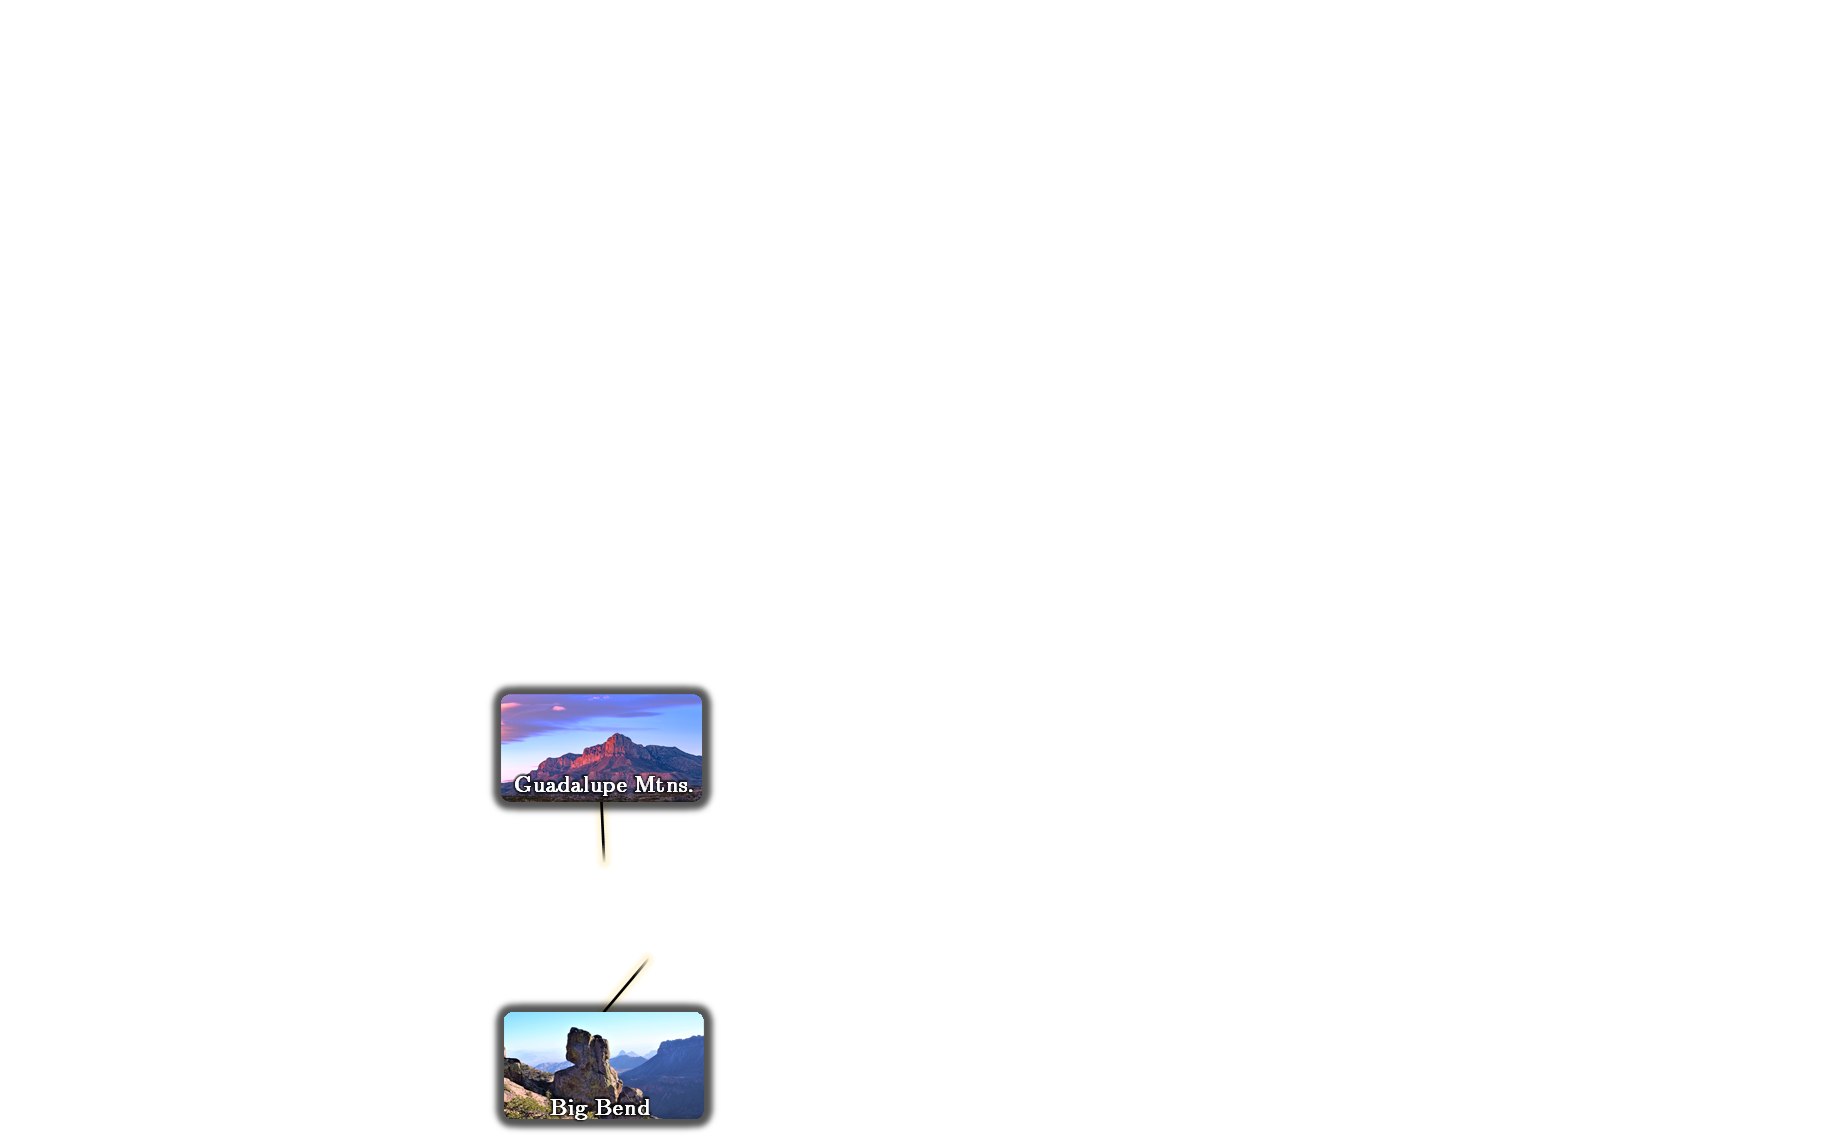
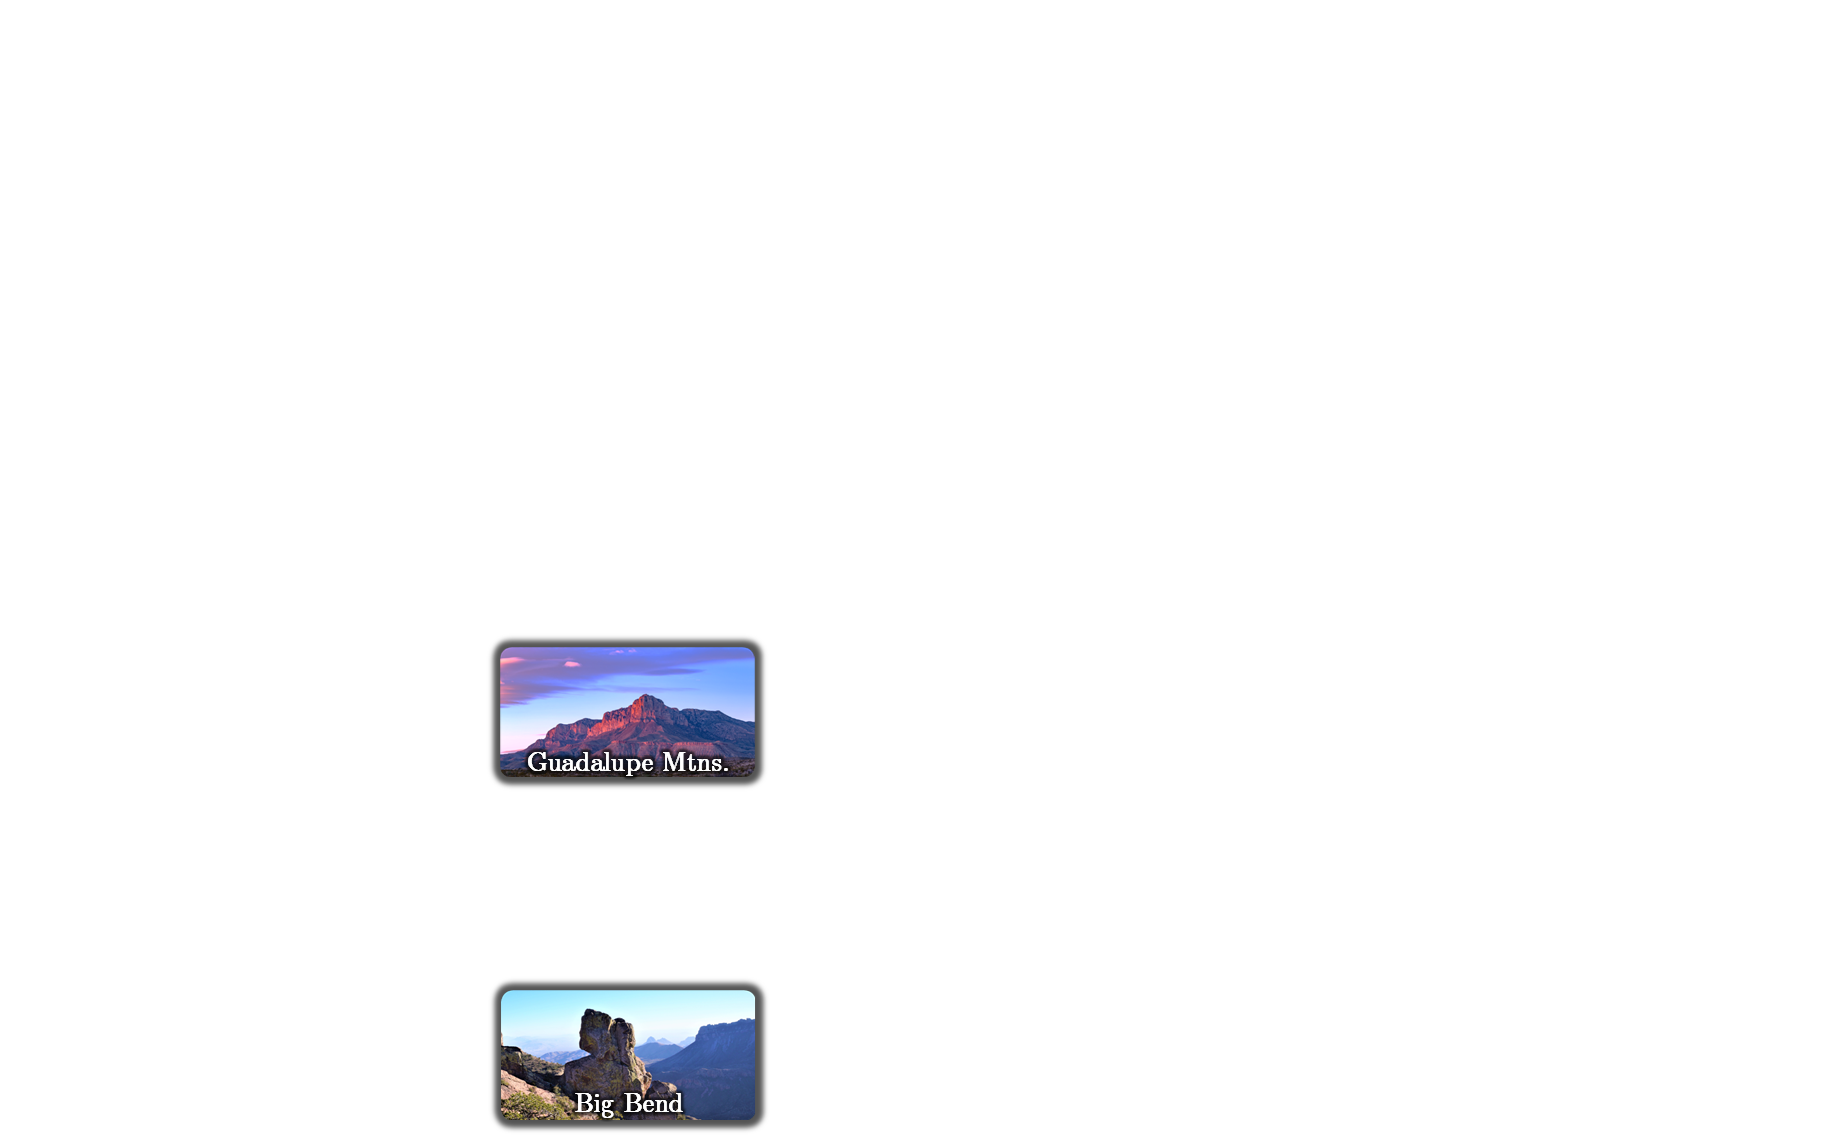
updating NP pics and lines

Changed region(s): [[0.2481, 0.5526, 0.4342, 0.7675], [0.2481, 0.8289, 0.4342, 1.0]]

diff --git a/index.html b/index.html
@@ -112,7 +112,9 @@
             Mountains NP & Big Bend NP. </p>
       </div>
       <div class="scrollContainer imgContainer">  
-        <p class="animate-on-scroll imageFadeIn"> <img src="images/NPs.png" alt="Big Bend and Guadalupe Mountains National Parks"></p>
+        <p class="animate-on-scroll imageFadeIn" style="z-index: 4;"> <img src="images/NPs.png" alt="Big Bend and Guadalupe Mountains National Parks"></p>
+        <p class="animate-on-scroll imageFadeIn"> <img src="images/NPLines.png" alt="Big Bend and Guadalupe Mountains National Parks"></p>
+
       </div>
       <div class="spacer"></div>
 
